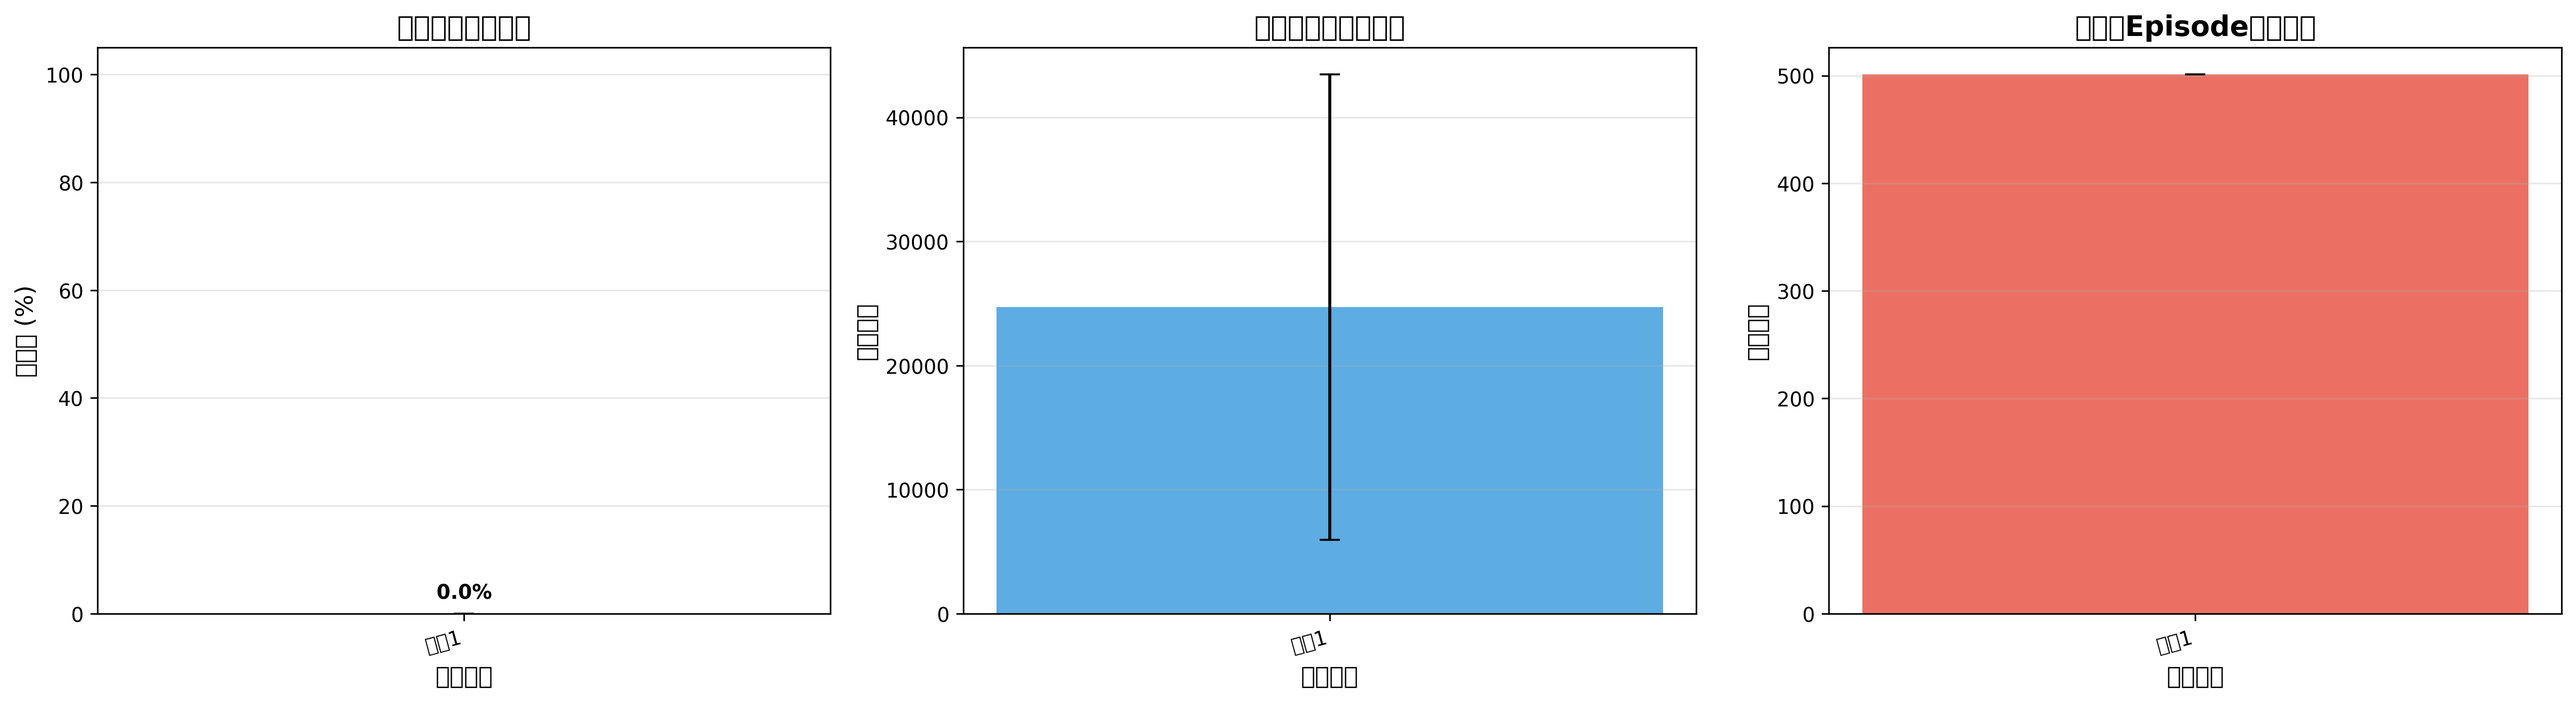
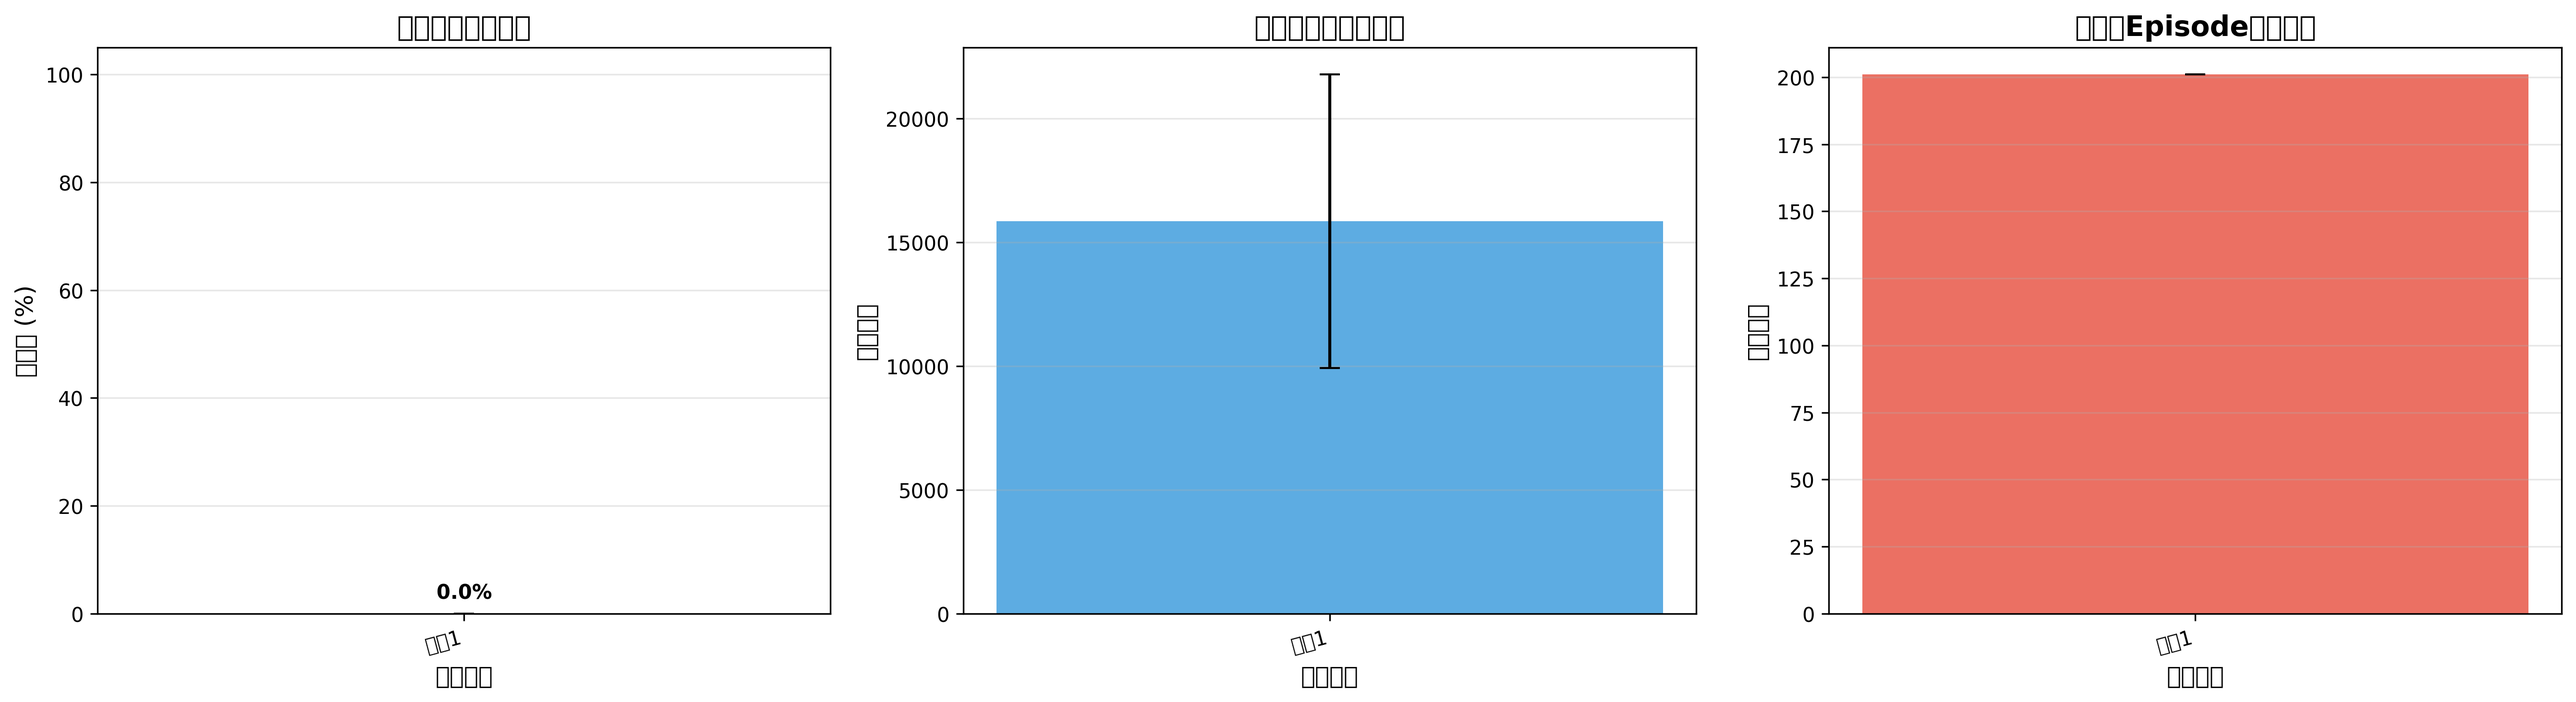
12.28

diff --git a/RL100-main/3D-Diffusion-Policy/train_v2.py b/RL100-main/3D-Diffusion-Policy/train_v2.py
@@ -23,7 +23,6 @@ from torch.utils.data import DataLoader, ConcatDataset, Dataset
 
 from diffusion_policy_3d.policy.rl100 import RL100
 from diffusion_policy_3d.common.pytorch_util import dict_apply, optimizer_to
-from diffusion_policy_3d.model.common.lr_scheduler import get_scheduler
 from diffusion_policy_3d.common.checkpoint_util import TopKCheckpointManager
 from diffusion_policy_3d.common.replay_buffer import ReplayBuffer
 from diffusion_policy_3d.common.sampler import SequenceSampler
@@ -210,15 +209,7 @@ class TrainRL100Improved:
         self.optimizer = hydra.utils.instantiate(
             cfg.optimizer, params=self.model.parameters())
 
-        # 7. 学习率调度器
-        self.lr_scheduler = None
-        if hasattr(cfg, 'lr_scheduler') and cfg.lr_scheduler is not None:
-            self.lr_scheduler = get_scheduler(
-                cfg.lr_scheduler.name,
-                optimizer=self.optimizer,
-                num_warmup_steps=cfg.lr_scheduler.warmup_steps,
-                num_training_steps=cfg.training.total_steps
-            )
+        # 【DP3论文】不使用学习率调度器，使用固定学习率1e-4
 
         # 8. TopK Checkpoint管理器
         self.ckpt_manager = TopKCheckpointManager(
@@ -246,11 +237,11 @@ class TrainRL100Improved:
             sparse_reward_value=sparse_reward_value
         )
 
-        # 包装为MultiStepWrapper（与评估保持一致：n_obs_steps=2, n_action_steps=8）
+        # 包装为MultiStepWrapper（与评估保持一致：n_obs_steps=2, n_action_steps=3）
         self.env = MultiStepWrapper(
             raw_env,
             n_obs_steps=cfg.policy.n_obs_steps,  # 2
-            n_action_steps=cfg.policy.n_action_steps,  # 8
+            n_action_steps=cfg.policy.n_action_steps,  # 3
             max_episode_steps=200,
             reward_agg_method='sum',
         )
@@ -492,8 +483,6 @@ class TrainRL100Improved:
                         'current_success_rate': success_rate,  # 添加当前成功率字段
                         'config': self.cfg,
                     }
-                    if self.lr_scheduler is not None:
-                        checkpoint['lr_scheduler_state_dict'] = self.lr_scheduler.state_dict()
 
                     torch.save(checkpoint, ckpt_path)
                     print(f"💾 保存TopK模型: {os.path.basename(ckpt_path)}")
@@ -674,10 +663,6 @@ class TrainRL100Improved:
 
                     optimizer.step()
 
-                    # 学习率调度（所有阶段统一调度）
-                    if self.lr_scheduler is not None:
-                        self.lr_scheduler.step()
-
                     # ===== EMA 更新（所有阶段统一更新）=====
                     if self.ema is not None:
                         self.ema.step(self.model)
@@ -689,8 +674,6 @@ class TrainRL100Improved:
                     # 5. 详细日志
                     self.global_step += 1
                     loss_dict['train/grad_norm'] = grad_norm.item()
-                    if self.lr_scheduler is not None:
-                        loss_dict['train/lr'] = self.lr_scheduler.get_last_lr()[0]
 
                     wandb.log(loss_dict, step=self.global_step)
 
@@ -742,9 +725,6 @@ class TrainRL100Improved:
 
                     self.optimizer.step()
 
-                    if self.lr_scheduler is not None:
-                        self.lr_scheduler.step()
-
                     # ===== EMA 更新 =====
                     if self.ema is not None:
                         self.ema.step(self.model)
@@ -756,8 +736,6 @@ class TrainRL100Improved:
                     # 日志
                     self.global_step += 1
                     loss_dict['online_rl/grad_norm'] = grad_norm.item()
-                    if self.lr_scheduler is not None:
-                        loss_dict['online_rl/lr'] = self.lr_scheduler.get_last_lr()[0]
 
                     wandb.log(loss_dict, step=self.global_step)
 
@@ -937,9 +915,6 @@ class TrainRL100Improved:
         if self.ema_model is not None:
             checkpoint['ema_model_state_dict'] = self.ema_model.state_dict()
 
-        if self.lr_scheduler is not None:
-            checkpoint['lr_scheduler_state_dict'] = self.lr_scheduler.state_dict()
-
         torch.save(checkpoint, path)
         print(f"  💾 Checkpoint已保存: {path}")
 
@@ -961,9 +936,6 @@ class TrainRL100Improved:
 
         self.global_step = payload.get('global_step', 0)
         self.best_success_rate = payload.get('best_success_rate', 0.0)
-
-        if self.lr_scheduler is not None and 'lr_scheduler_state_dict' in payload:
-            self.lr_scheduler.load_state_dict(payload['lr_scheduler_state_dict'])
 
         print(f"  ✓ 恢复训练 - Step: {self.global_step}, 最佳成功率: {self.best_success_rate:.2%}")
 

diff --git a/RL100-main/3D-Diffusion-Policy/diffusion_policy_3d/policy/rl100.py b/RL100-main/3D-Diffusion-Policy/diffusion_policy_3d/policy/rl100.py
@@ -872,7 +872,11 @@ class RL100(DP3):
 
         # 获取调度参数
         alpha_prod_t = scheduler.alphas_cumprod[t]
-        alpha_prod_t_prev = scheduler.alphas_cumprod[t - 1] if t > 0 else scheduler.one
+        # DDIM兼容性：使用torch.tensor(1.0)替代scheduler.one
+        if t > 0:
+            alpha_prod_t_prev = scheduler.alphas_cumprod[t - 1]
+        else:
+            alpha_prod_t_prev = torch.tensor(1.0, device=alpha_prod_t.device, dtype=alpha_prod_t.dtype)
         beta_prod_t = 1 - alpha_prod_t
         beta_prod_t_prev = 1 - alpha_prod_t_prev
 
@@ -925,27 +929,36 @@ class RL100(DP3):
 
     def _get_variance(self, timestep, prev_timestep):
         """
-        计算DDPM方差
+        计算DDPM/DDIM方差
 
         根据variance_type配置计算方差：
         - fixed_small: β_t * (1 - ᾱ_{t-1}) / (1 - ᾱ_t)
         - fixed_large: β_t
         - learned: 从模型学习
+        - None (DDIM): 使用默认计算值
         """
         scheduler = self.noise_scheduler
 
         alpha_prod_t = scheduler.alphas_cumprod[timestep]
-        alpha_prod_t_prev = scheduler.alphas_cumprod[prev_timestep] if prev_timestep >= 0 else scheduler.one
+        # DDIM兼容性：使用torch.tensor(1.0)替代scheduler.one
+        if prev_timestep >= 0:
+            alpha_prod_t_prev = scheduler.alphas_cumprod[prev_timestep]
+        else:
+            alpha_prod_t_prev = torch.tensor(1.0, device=alpha_prod_t.device, dtype=alpha_prod_t.dtype)
         beta_prod_t = 1 - alpha_prod_t
         beta_prod_t_prev = 1 - alpha_prod_t_prev
 
         variance = (beta_prod_t_prev / beta_prod_t) * (1 - alpha_prod_t / alpha_prod_t_prev)
 
-        # 根据variance_type调整
-        if scheduler.config.variance_type == "fixed_small":
+        # 根据variance_type调整（DDIM调度器没有variance_type，使用getattr安全访问）
+        variance_type = getattr(scheduler.config, 'variance_type', None)
+        if variance_type == "fixed_small":
             variance = torch.clamp(variance, min=1e-20)
-        elif scheduler.config.variance_type == "fixed_large":
+        elif variance_type == "fixed_large":
             variance = scheduler.betas[timestep]
+        elif variance_type is None:
+            # DDIM调度器没有variance_type，使用默认计算值并裁剪
+            variance = torch.clamp(variance, min=1e-20)
 
         return variance
 

diff --git a/RL100-main/eval_rl100.py b/RL100-main/eval_rl100.py
@@ -25,7 +25,7 @@ from diffusion_policy_3d.common.pytorch_util import dict_apply
 class RL100Evaluator:
     """RL100策略评估器（使用MultiStepWrapper）"""
 
-    def __init__(self, checkpoint_path: str, device: str = "cuda:0", render: bool = False, max_steps: int = 500):
+    def __init__(self, checkpoint_path: str, device: str = "cuda:0", render: bool = False, max_steps: int = 200):
         """
         Args:
             checkpoint_path: checkpoint文件路径
@@ -89,12 +89,12 @@ class RL100Evaluator:
         model = hydra.utils.instantiate(self.config.policy)
 
         # 加载权重（优先加载EMA模型）
-        # if 'ema_model_state_dict' in self.checkpoint:
-        #     print("  ✓ 检测到EMA模型，加载EMA权重")
-        #     model.load_state_dict(self.checkpoint['ema_model_state_dict'])
-        # else:
-        #     print("  ℹ 加载主模型权重")
-        model.load_state_dict(self.checkpoint['model_state_dict'])
+        if 'ema_model_state_dict' in self.checkpoint:
+            print("  ✓ 检测到EMA模型，加载EMA权重")
+            model.load_state_dict(self.checkpoint['ema_model_state_dict'])
+        else:
+            print("  ℹ 加载主模型权重")
+            model.load_state_dict(self.checkpoint['model_state_dict'])
 
         model.to(self.device)
 
@@ -120,7 +120,7 @@ class RL100Evaluator:
             评估结果字典
         """
         if max_steps is None:
-            max_steps = 500  # MetaWorld默认
+            max_steps = 200  # MetaWorld默认
 
         print(f"开始评估 ({num_episodes} episodes, 最大{max_steps}步)...\n")
 
@@ -257,7 +257,7 @@ def main():
         checkpoint_path=args.checkpoint,
         device=args.device,
         # render=args.render
-        max_steps=args.max_steps or 500
+        max_steps=args.max_steps
     )
 
     # 运行评估

diff --git a/RL100-main/3D-Diffusion-Policy/diffusion_policy_3d/env_runner/metaworld_runner.py b/RL100-main/3D-Diffusion-Policy/diffusion_policy_3d/env_runner/metaworld_runner.py
@@ -39,8 +39,9 @@ class MetaworldRunner(BaseRunner):
         def env_fn(task_name):
             return MultiStepWrapper(
                 SimpleVideoRecordingWrapper(
-                    MetaWorldEnv(task_name=task_name,device=device, 
-                                 use_point_crop=use_point_crop, num_points=num_points)),
+                    MetaWorldEnv(task_name=task_name, device=device,
+                                 use_point_crop=use_point_crop, num_points=num_points,
+                                 max_episode_steps=max_steps)),  # 【修复】显式传入max_episode_steps
                 n_obs_steps=n_obs_steps,
                 n_action_steps=n_action_steps,
                 max_episode_steps=max_steps,

diff --git a/RL100-main/3D-Diffusion-Policy/collect_dial_turn.py b/RL100-main/3D-Diffusion-Policy/collect_dial_turn.py
@@ -10,9 +10,9 @@ from diffusion_policy_3d.env.metaworld.metaworld_wrapper import MetaWorldEnv
 
 # ================= 配置区域 =================
 TASK_NAME = 'dial-turn-v2-goal-observable'  # 任务名称
-NUM_EPISODES = 50              # 采集多少条成功轨迹
+NUM_EPISODES = 10              # 采集多少条成功轨迹
 MAX_STEPS = 200                # 每条轨迹最大步数
-SAVE_DIR = './data/metaworld_wrapper_data/dial_turn_demos2' # 保存路径
+SAVE_DIR = './data/metaworld_wrapper_data/dial_turn_demos' # 保存路径
 DEVICE = 'cuda:0' if torch.cuda.is_available() else 'cpu'
 NUM_POINTS = 512               # 【修复】点云数量改为512（与DP3一致）
 

diff --git a/RL100-main/3D-Diffusion-Policy/diffusion_policy_3d/env/metaworld/metaworld_wrapper.py b/RL100-main/3D-Diffusion-Policy/diffusion_policy_3d/env/metaworld/metaworld_wrapper.py
@@ -124,7 +124,10 @@ class MetaWorldEnv(gym.Env):
         self.min_bound = [x_min, y_min, z_min]
         self.max_bound = [x_max, y_max, z_max]
 
-        # 使用传入的max_episode_steps参数，而非硬编码200
+        # 使用传入的max_episode_steps参数，确保不为None
+        if max_episode_steps is None:
+            max_episode_steps = 200  # 默认值
+            cprint(f"[MetaWorldEnv] max_episode_steps为None，使用默认值200", "yellow")
         self.episode_length = self._max_episode_steps = max_episode_steps
         self.action_space = self.env.action_space
         self.obs_sensor_dim = self.get_robot_state().shape[0]

diff --git a/RL100-main/eval_batch.py b/RL100-main/eval_batch.py
@@ -48,7 +48,7 @@ class BatchEvaluator:
             checkpoint_path=checkpoint_path,
             device=self.device,
             render=False,
-             max_steps=max_steps or 500
+             max_steps=max_steps
         )
 
         results = evaluator.evaluate(num_episodes=num_episodes, max_steps=max_steps)
